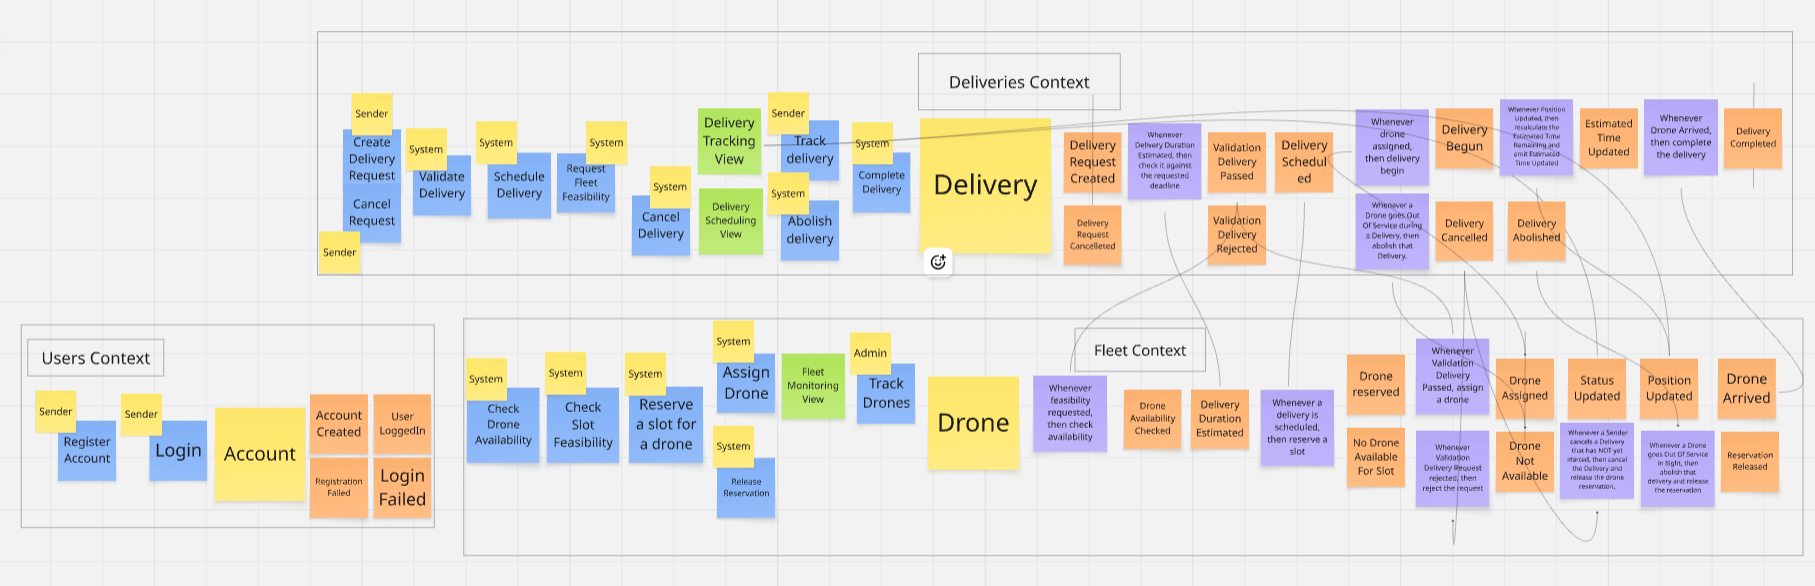
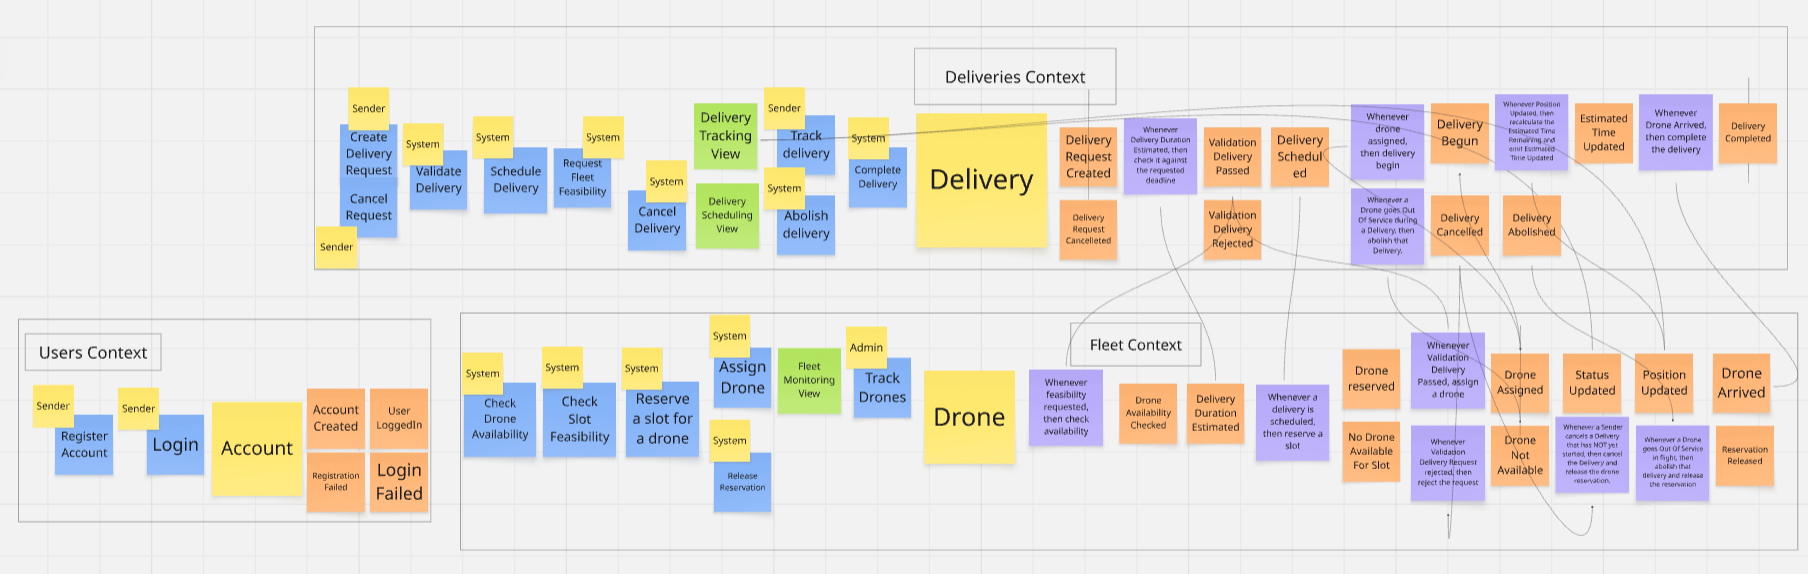
update event storming missing arrow and delete row in user stories

diff --git a/doc/user_stories.md b/doc/user_stories.md
@@ -4,9 +4,9 @@
 
 Personas:
 - **Sender**: a registered user who originates a delivery request.
-- **Admin**: an already-registered user with administrative privileges who monitors the fleet and **observes** delivery scheduling (the scheduling itself is automatic — see note below). The Admin account is pre-loaded (seed): it does not register, it only logs in.
+- **Admin**: an already-registered user with administrative privileges who monitors the fleet and **observes** delivery scheduling. The Admin account is pre-loaded: it does not register, it only logs in.
 
-> **Note on the drone.** In this prototype the drone is **not an external actor**. It is simulated internally by the delivery-service (a Virtual Thread per active drone), and its position/status updates are **internal domain events** of the Fleet Context (`Position Updated`, `Drone Arrived`, `Drone Out Of Service`), propagated in-process via the Observer pattern — not telemetry ingested over the network from an external device. There is therefore no "Drone" persona and no telemetry user story directed at an external system; the drone's behaviour is captured by the delivery lifecycle and fleet-monitoring stories below.
+> **Note on the drone.** In this prototype the drone is **not an external actor**. It is simulated internally by the delivery-service (a Virtual Thread per active drone), and its position/status updates are **internal domain events** of the Fleet Context (`Position Updated`, `Drone Arrived`, `Drone Out Of Service`), propagated in-process via the Observer pattern, not telemetry ingested over the network from an external device. There is therefore no "Drone" persona and no telemetry user story directed at an external system; the drone's behaviour is captured by the delivery lifecycle and fleet-monitoring stories below.
 
 ---
 
@@ -112,11 +112,11 @@ so that I can supervise fleet operations.
 
 ## Scheduling (Admin observes; the system schedules automatically)
 
-> **Note on scheduling.** Scheduling is **automatic**: a validated scheduled delivery is planned by the system (policies + a Vert.x timer *Scheduler* that triggers the assignment when the slot is due). The Admin does **not** create, move or reassign slots — the Admin's role on scheduling is **observational** (review the daily plan per drone). This reflects the frozen scope decision (no manual/in-flight reassignment).
+> **Note on scheduling.** Scheduling is **automatic**: a validated scheduled delivery is planned by the system. The Admin does **not** create, move or reassign slots, the Admin's role on scheduling is **observational**.
 
 ```
 As an Admin,
-I want to view the deliveries scheduled for each drone, ordered by pickup time,
+I want to view the deliveries scheduled for each drone,
 so that I have an overview of the planned daily route of every drone.
 ```
 